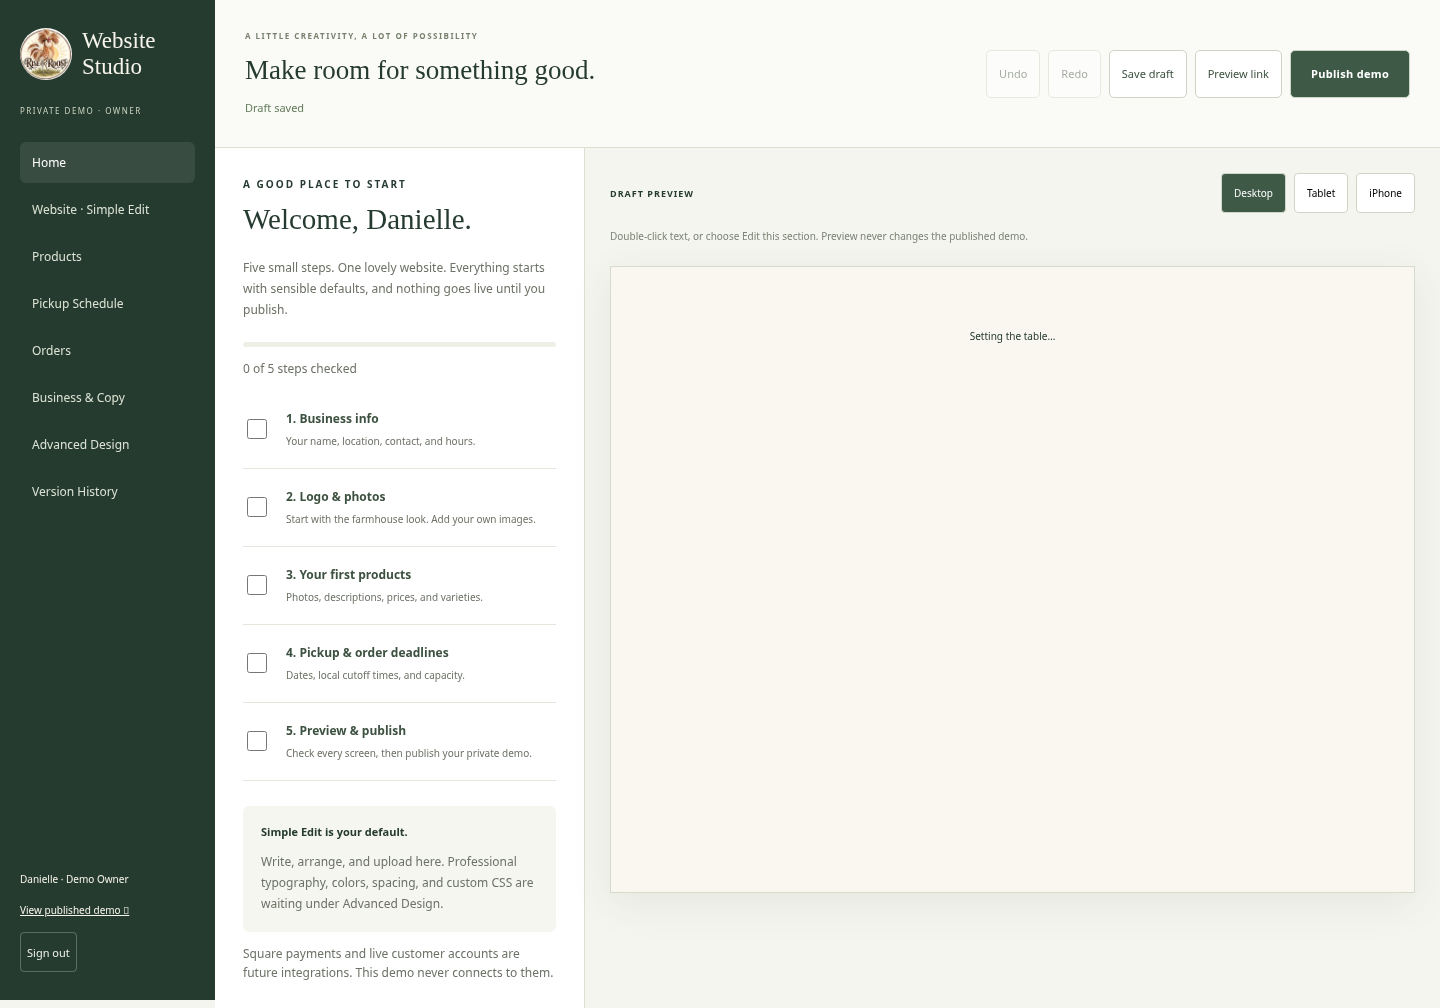
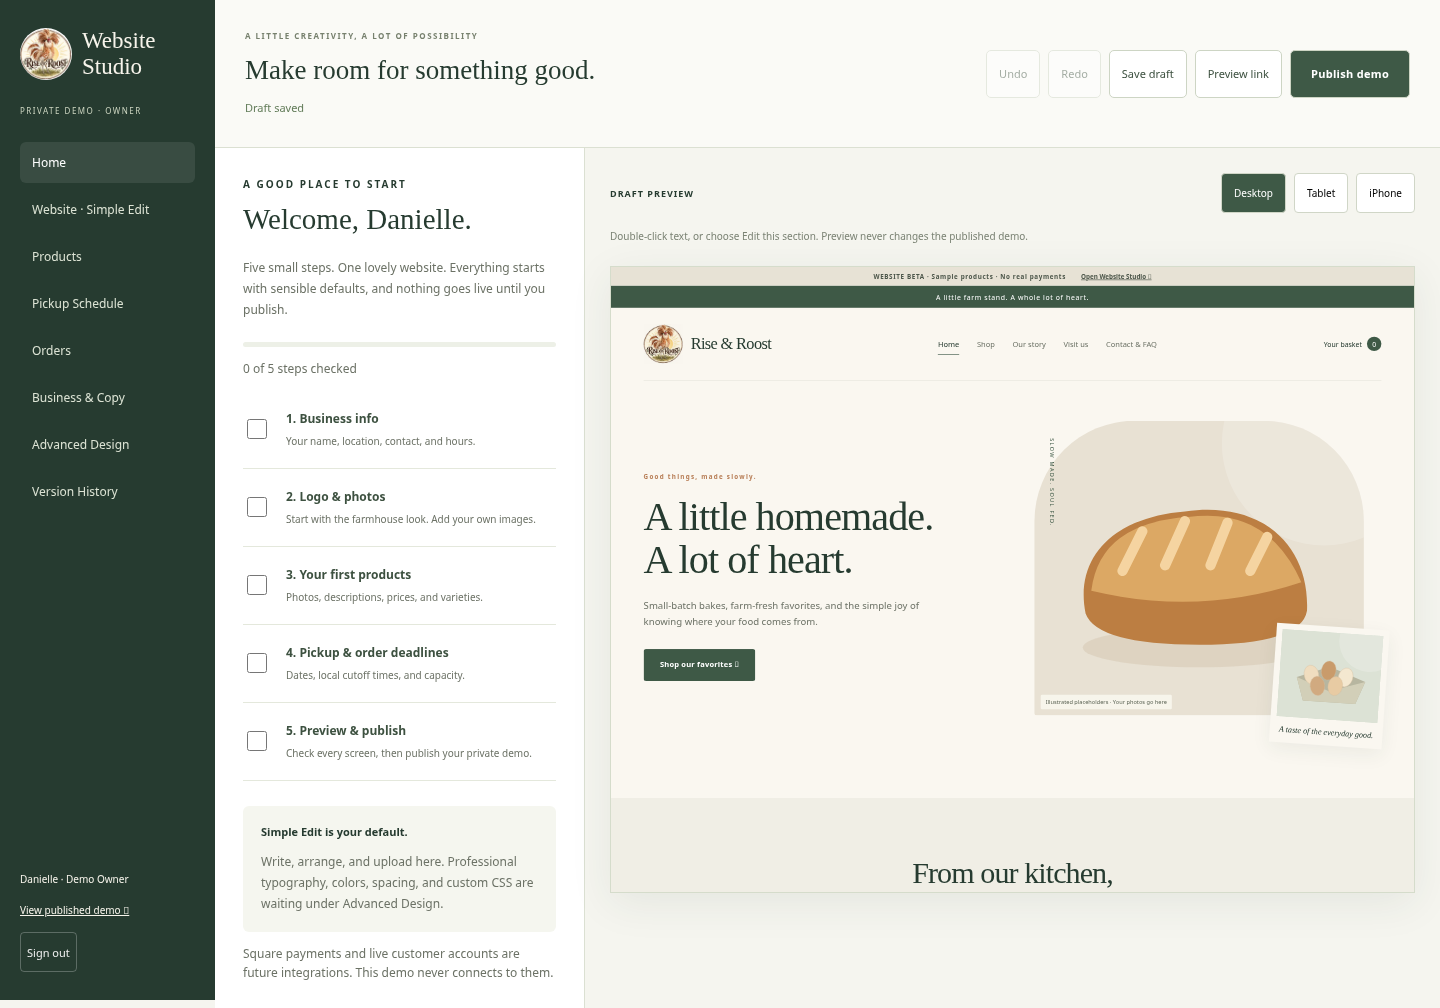
Use matching browser CI image and capture the fully loaded Studio

diff --git a/website/docs/QA.md b/website/docs/QA.md
@@ -13,7 +13,7 @@ This report covers the new `website/` project on `codex/issue-7-website-studio`.
 | `npm run test:worker` against actual local Cloudflare Worker/D1 | Passed: assets, CSP, owner session, draft/save/publish, separate public read, anonymous denial |
 | `npm run check` / Wrangler deploy dry run | Passed |
 | Runtime dependency audit (`npm audit --omit=dev`) | Zero reported vulnerabilities |
-| `npm run screenshots` against local Cloudflare Worker | Passed: default desktop/mobile, Studio, edited preview, matching published desktop/mobile; credentials excluded |
+| `npm run screenshots` against local development server | Passed: default desktop/mobile, fully loaded Studio, edited preview, matching published desktop/mobile; credentials excluded |
 | Production preservation | Existing index, Register/Admin HTML, core, stylesheet, and cloud adapter matched stable main byte for byte; all changed paths are new website/CI files |
 
 Total: **42 automated tests passed**, plus the Worker runtime smoke, build, install, audit, and screenshot checks. There are no intentionally disabled or expected-failure assertions in these suites. These are local results. GitHub CI and hosted HTTPS acceptance are distinct and must be reported separately.
@@ -42,7 +42,7 @@ PLAYWRIGHT_BROWSERS_PATH=/workspace/rise-roost-browsers \
 npm run test:browser -- --project=desktop-webkit --project=iphone-webkit
 ```
 
-No host-check bypass is needed for this supported custom-executable configuration. Standard CI/developer installations use `npx playwright install --with-deps chromium webkit` and the ordinary bundled launcher. CI pins Ubuntu 24.04 because the moving `ubuntu-latest` label migrated to Ubuntu 26 while the pinned Playwright version supports 24.04. The initial GitHub runs stopped during browser dependency installation; they did not execute application tests. The workflow was corrected to use the supported OS and Node 24 actions.
+No host-check bypass is needed for this supported custom-executable configuration. Standard developer installations use `npx playwright install --with-deps chromium webkit` and the ordinary bundled launcher. CI uses the matching official `mcr.microsoft.com/playwright:v1.56.1-noble` image with browser/system dependencies already installed, Ubuntu 24.04, and Node 24 actions. This avoids a moving host distribution and repeated browser/OS installation. The initial GitHub runs stopped during browser dependency installation; they did not execute application tests. Final GitHub status is tracked on PR #8 separately from the passing local results.
 
 ## Screenshots and remaining acceptance
 
